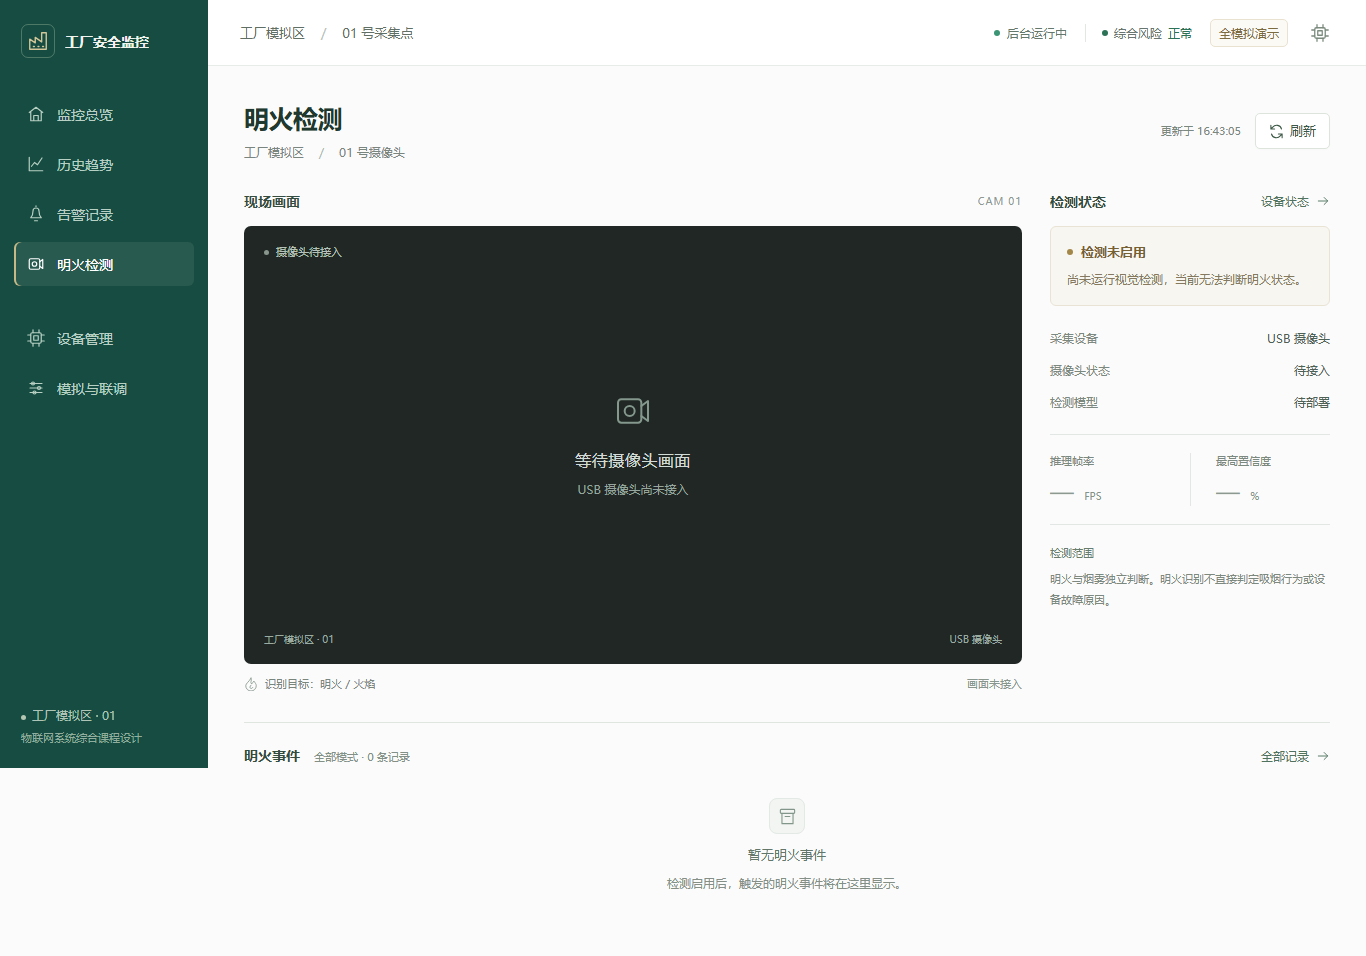
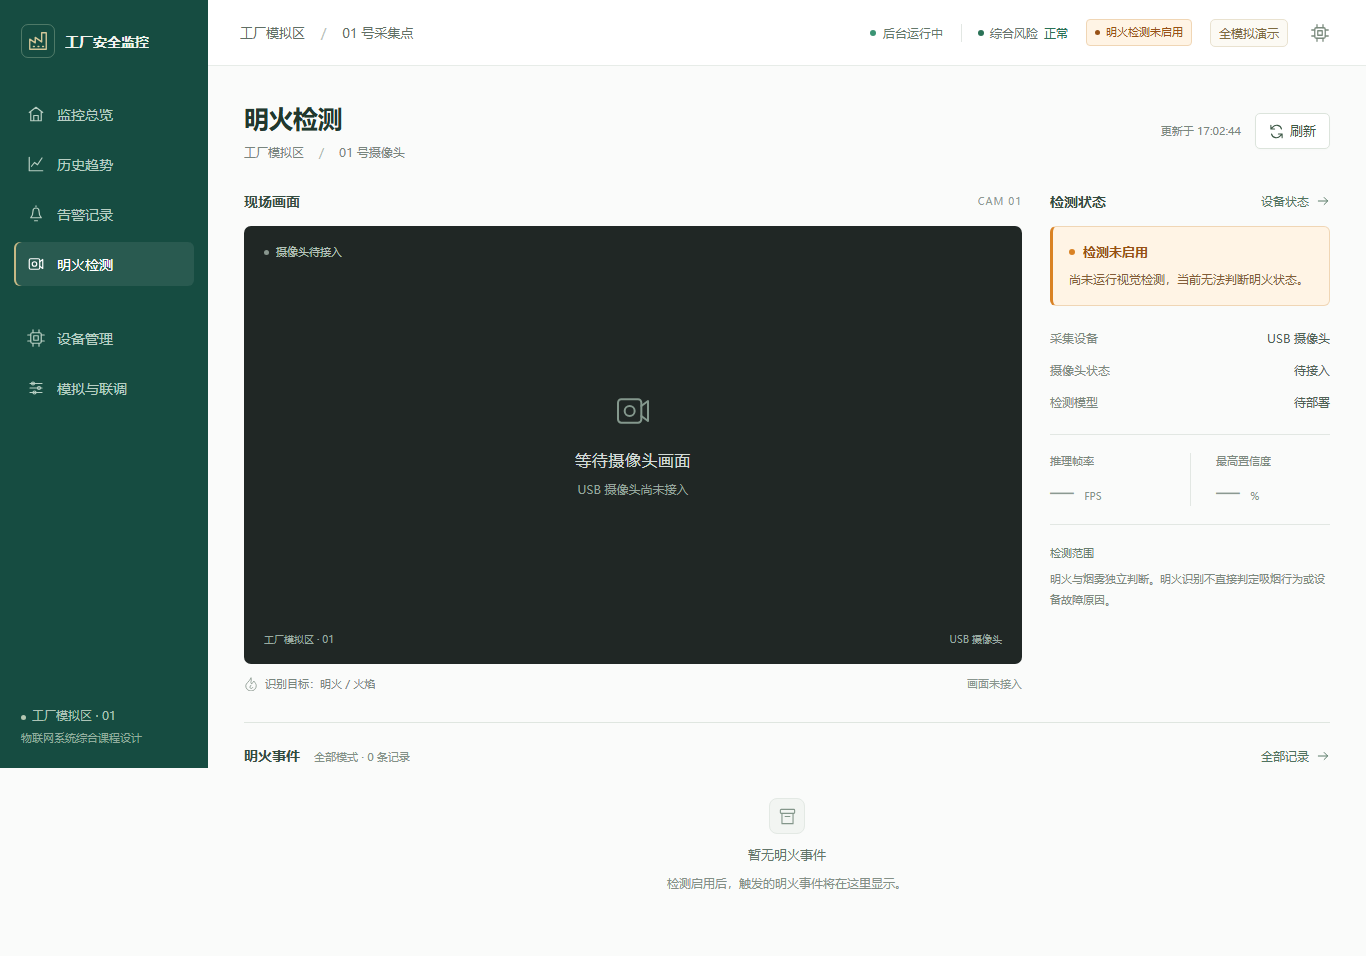
fix: highlight inactive fire detection status

Changed region(s): [[0.7687, 0.2427, 0.9531, 0.3033], [0.7072, 0.0, 0.8917, 0.0607], [0.6457, 0.0303, 0.6764, 0.0607]]

diff --git a/static/css/workspace-shell.css b/static/css/workspace-shell.css
@@ -22,7 +22,7 @@ main { margin-left:var(--sidebar); padding:0; min-height:100dvh; }
 .alerts-topbar { min-height:66px; padding:0 32px; border-bottom:1px solid #e7ece8; background:#fff; display:flex; align-items:center; justify-content:space-between; gap:20px; }
 .site-location { font-size:13px; color:#5f6f65; white-space:nowrap; }
 .location-divider { color:#bbc5bd; padding:0 12px; }
-.service-status { display:flex; align-items:center; gap:18px; font-size:12px; }
+.service-status { display:flex; align-items:center; gap:18px; font-size:12px; flex-wrap:wrap; }
 .connection { font-size:12px; color:#64786b; gap:7px; }
 .connection .dot { width:6px; height:6px; }
 .risk-indicator { display:inline-flex; align-items:center; gap:6px; white-space:nowrap; padding-left:16px; border-left:1px solid #e2e7e3; color:#69766f; }
@@ -35,9 +35,13 @@ main { margin-left:var(--sidebar); padding:0; min-height:100dvh; }
 .risk-indicator[data-level="red"] .risk-dot { animation:risk-pulse 2.4s ease-in-out infinite; }
 @keyframes risk-pulse { 0%,100% { box-shadow:0 0 0 0 #b139302b; } 50% { box-shadow:0 0 0 4px #b1393008; } }
 .mode-tag { font-size:12px; font-weight:400; color:#7d6b40; border:1px solid #e9e2d0; border-radius:5px; padding:4px 8px; background:#fcfaf4; white-space:nowrap; }
-.service-status>a { display:grid; place-items:center; color:#7b8b7e; width:28px; height:28px; border-radius:4px; }
-.service-status>a:hover { background:#f1f5f1; }
-.service-status>a>.icon { width:18px; height:18px; }
+.vision-status-link { display:inline-flex; align-items:center; gap:6px; padding:4px 8px; border:1px solid #e2e7e3; border-radius:4px; color:#63766a; background:#f3f5f3; font-size:11px; white-space:nowrap; }
+.vision-status-link>i { width:5px; height:5px; border-radius:50%; background:currentColor; flex-shrink:0; }
+.vision-status-link[data-state="pending"] { color:#985116; border-color:#f0d6b5; background:#fff4e5; }
+.vision-status-link:hover { text-decoration:underline; text-underline-offset:3px; }
+.service-status>.device-status-link { display:grid; place-items:center; color:#7b8b7e; width:28px; height:28px; border-radius:4px; }
+.service-status>.device-status-link:hover { background:#f1f5f1; }
+.service-status>.device-status-link>.icon { width:18px; height:18px; }
 .workspace-page { max-width:1540px; margin:0 auto; padding:35px 36px 40px; }
 .button { min-height:36px; border:1px solid #dce4dc; background:#fff; color:#3d5846; padding:7px 13px; font-size:13px; font-weight:400; border-radius:5px; box-shadow:0 1px 2px #163e1f04; line-height:1.5; }
 .button>.icon { width:15px; height:15px; }
@@ -62,9 +66,9 @@ footer { display:none; }
   .nav-item>span { display:block; font-size:10px; }.nav-item>.icon { width:17px; height:17px; }.nav-item.active { box-shadow:inset 0 -2px #c7b985; }
   .sidebar-footer { display:none; }
   main { margin-left:0; padding:0; }
-  .alerts-topbar { flex-wrap:wrap; justify-content:space-between; gap:10px; padding:12px 16px; min-height:50px; }
+  .alerts-topbar { position:relative; flex-wrap:wrap; justify-content:space-between; gap:10px; padding:12px 16px; min-height:50px; }
   .site-location { font-size:12px; }.site-location .location-divider { padding:0 6px; }
-  .service-status { width:100%; gap:10px; flex-wrap:wrap; }.service-status>a { margin-left:auto; width:23px; height:23px; }.connection,.mode-tag { font-size:11px; }.mode-tag { padding:3px 6px; }
+  .service-status { width:100%; gap:10px; flex-wrap:wrap; }.service-status>.device-status-link { position:absolute; top:9px; right:16px; width:23px; height:23px; }.connection,.mode-tag { font-size:11px; }.mode-tag,.vision-status-link { padding:3px 6px; }
   .risk-indicator { border-left:0; padding-left:0; font-size:11px; gap:4px; }.risk-indicator strong { font-size:11px; }
   .workspace-page { padding:23px 16px 30px; }
   input,select { font-size:13px; min-height:38px; }

diff --git a/static/js/dashboard.js b/static/js/dashboard.js
@@ -39,8 +39,16 @@
     if($("riskIndicatorText").textContent!==label)set("riskIndicatorText",label);
     indicator.title=description;
   }
+  function renderVisionIndicator(vision){
+    const indicator=$("visionIndicator");if(!indicator)return;
+    const pending=vision?.state==="pending",label=pending?"明火检测未启用":"明火检测状态未知";
+    indicator.dataset.state=pending?"pending":"unknown";
+    if($("visionIndicatorText").textContent!==label)set("visionIndicatorText",label);
+    indicator.title=pending?"尚未运行视觉检测，点击查看检测状态":"暂时无法确认视觉检测状态，点击查看";
+  }
   function markOffline(message="后台连接中断") {
     connection(message,"red");
+    renderVisionIndicator(null);
     if(page==="vision"){renderVisionStatus(null);renderVisionEvents(null);}
     setHistoryAuto("error", "连接中断");
     renderRiskIndicator("gray","状态未知",message+"，无法确认当前环境风险");
@@ -86,6 +94,7 @@
     });
     set("controlHint",data.mode==="live"?"真实采集模式已关闭模拟注入。":"模拟数据通过后台存储和告警规则处理，关闭网页后继续运行。");
     if(!data.sample || !data.runtime_online){markOffline(data.error || "等待后台采样");return;}
+    renderVisionIndicator(data.vision);
     if(page==="vision")renderVisionStatus(data.vision);
     const sample=data.sample;
     renderRiskIndicator(sample.level,sample.level==="gray"?"数据不完整":levels[sample.level],

diff --git a/static/css/vision.css b/static/css/vision.css
@@ -25,11 +25,11 @@
 .camera-caption { display:flex; align-items:center; gap:7px; margin:12px 0 0; font-size:11px; color:#79867e; }
 .camera-caption>.icon { width:14px; height:14px; color:#8b9990; stroke-width:1.5; }
 .camera-caption-end { margin-left:auto; color:#89968e; }
-.vision-status { border:1px solid #e9e3d5; border-radius:6px; padding:15px 16px; background:#f8f6f0; }
+.vision-status { border:1px solid #f0d6b5; border-left:3px solid #d98224; border-radius:6px; padding:15px 16px; background:#fff4e5; }
 .vision-status>div { display:flex; align-items:center; gap:8px; }
-.vision-status i { width:6px; height:6px; border-radius:50%; background:#a38748; flex-shrink:0; }
-.vision-status strong { font-size:13px; font-weight:550; color:#776133; }
-.vision-status p { margin:7px 0 0; font-size:12px; line-height:1.8; color:#857960; }
+.vision-status i { width:6px; height:6px; border-radius:50%; background:#d98224; flex-shrink:0; }
+.vision-status strong { font-size:13px; font-weight:600; color:#985116; }
+.vision-status p { margin:7px 0 0; font-size:12px; line-height:1.8; color:#835d37; }
 .vision-status[data-state="loading"],.vision-status[data-state="unknown"] { border-color:#e2e7e3; background:#f2f5f3; }
 .vision-status[data-state="loading"] i,.vision-status[data-state="unknown"] i { background:#8c9992; }
 .vision-status[data-state="loading"] strong,.vision-status[data-state="unknown"] strong { color:#55685c; }

diff --git a/templates/partials/workspace_topbar.html b/templates/partials/workspace_topbar.html
@@ -1,1 +1,1 @@
-<header class="alerts-topbar"><span class="site-location">工厂模拟区 <span class="location-divider">/</span> 01 号采集点</span><div class="service-status"><span id="connection" class="connection"><i class="dot gray"></i>正在连接</span>{% include 'partials/risk_indicator.html' %}<span id="modeLabel" class="mode-tag">正在读取模式</span><a href="/devices" aria-label="查看设备状态" title="设备状态">{{ icon('devices') }}</a></div></header>
+<header class="alerts-topbar"><span class="site-location">工厂模拟区 <span class="location-divider">/</span> 01 号采集点</span><div class="service-status"><span id="connection" class="connection"><i class="dot gray"></i>正在连接</span>{% include 'partials/risk_indicator.html' %}<a href="/vision" id="visionIndicator" class="vision-status-link" data-state="loading"><i aria-hidden="true"></i><span id="visionIndicatorText">明火状态读取中</span></a><span id="modeLabel" class="mode-tag">正在读取模式</span><a href="/devices" class="device-status-link" aria-label="查看设备状态" title="设备状态">{{ icon('devices') }}</a></div></header>

diff --git a/static/css/alerts.css b/static/css/alerts.css
@@ -133,7 +133,7 @@ dialog::backdrop { background:#1a2d222b; }
   main { margin-left:0; padding:0; }
   .alerts-topbar { flex-wrap:wrap; justify-content:space-between; gap:10px; padding:12px 16px; min-height:50px; }
   .site-location { font-size:12px; }.site-location .location-divider { padding:0 6px; }
-  .service-status { width:100%; gap:10px; flex-wrap:wrap; }.service-status>a { margin-left:auto; width:23px; height:23px; }.connection,.mode-tag { font-size:11px; }.mode-tag { padding:3px 6px; }
+  .service-status { width:100%; gap:10px; flex-wrap:wrap; }.service-status>.device-status-link { width:23px; height:23px; }.connection,.mode-tag { font-size:11px; }.mode-tag { padding:3px 6px; }
   .risk-indicator { border-left:0; padding-left:0; font-size:11px; gap:4px; }.risk-indicator strong { font-size:11px; }
   .workspace-page { padding:23px 16px 30px; }
   .alerts-page-heading { margin-bottom:23px; gap:12px; }.alerts-title { gap:9px; }.alerts-title h1 { font-size:23px; }

diff --git a/docs/VALIDATION.md b/docs/VALIDATION.md
@@ -98,3 +98,9 @@ Linux 使用 `.venv/bin/python`；后端测试可以执行 `.venv/bin/python -m 
 ```
 
 截图和 JSON 位于忽略的 `artifacts/vision-check/`。README 展示的是摄像头与模型未接入状态，测试中的明火事件只来自隔离夹具，不能作为实际识别或截图功能已完成的证据。设计与边界见 [明火页改版记录](VISION_UI.md)。
+
+### 状态提示补充
+
+保留“综合风险”名称，强化未启用提示，并在三个已整理页面的共用顶栏增加明火状态入口。本次运行明火页 6 组、告警页 12 组、历史页 7 组浏览器回归，均通过且无 JavaScript 异常。
+
+另通过浏览器检查新增标签的跳转、断线变为未知和重新连接恢复；最终样式在三个页面的 1366、768、390、320 像素宽度检查通过，页面及标签均无横向溢出。手机端设备入口移至面包屑右侧，避免单独占据一行；已查看桌面及手机截图。本轮没有更改风险计算或检测后端。

diff --git a/docs/VISION_UI.md b/docs/VISION_UI.md
@@ -10,6 +10,7 @@
 
 - 左侧 16:9 画面区使用深灰绿色，移除工厂装饰插画及背景网格，让后续现场图像成为重点。
 - 右侧集中显示摄像头、模型和待测的帧率、置信度；未运行检测时明确说明无法判断明火状态。
+- 未启用提示使用浅橙底色、3px 橙色左边线和深橙标题。告警、历史趋势和明火页的共用顶栏保留“综合风险”，增加可跳转到明火页的检测状态标签；后台断开时显示“明火检测状态未知”。
 - 取消页面里的开发接入步骤；实施安排继续保存在 [开发计划](../DEVELOPMENT_PLAN.md)。
 - 下方通过 `source=vision` 读取全部模式中的最近四条视觉事件，标明来源和模式，链接到已应用明火筛选的告警页。
 - 暂无记录、读取失败和初次加载分开展示；状态请求失败后显示未知，刷新后可恢复。

diff --git a/CHANGELOG.md b/CHANGELOG.md
@@ -4,6 +4,7 @@
 
 ## [Unreleased]
 
+- 强化明火检测未启用提示：浅橙底色、橙色竖线与深橙标题；共用顶栏增加可跳转的检测状态标签，断线时显示未知，保留“综合风险”名称。
 - 明火检测页改版：以单摄像头画面为主，右侧集中检测状态，下方显示最近视觉事件；沿用共用导航与风险顶栏，视觉效果待确认。
 - 明火页连接已有状态与事件 API，支持刷新；区分待接入、连接失败、暂无记录和查询失败，保留模拟来源标记。没有接入摄像头、模型或截图采集。
 - 新增明火页浏览器验证，覆盖五种宽度、断线恢复、视觉来源筛选、记录数量、文本安全与告警页跳转。
